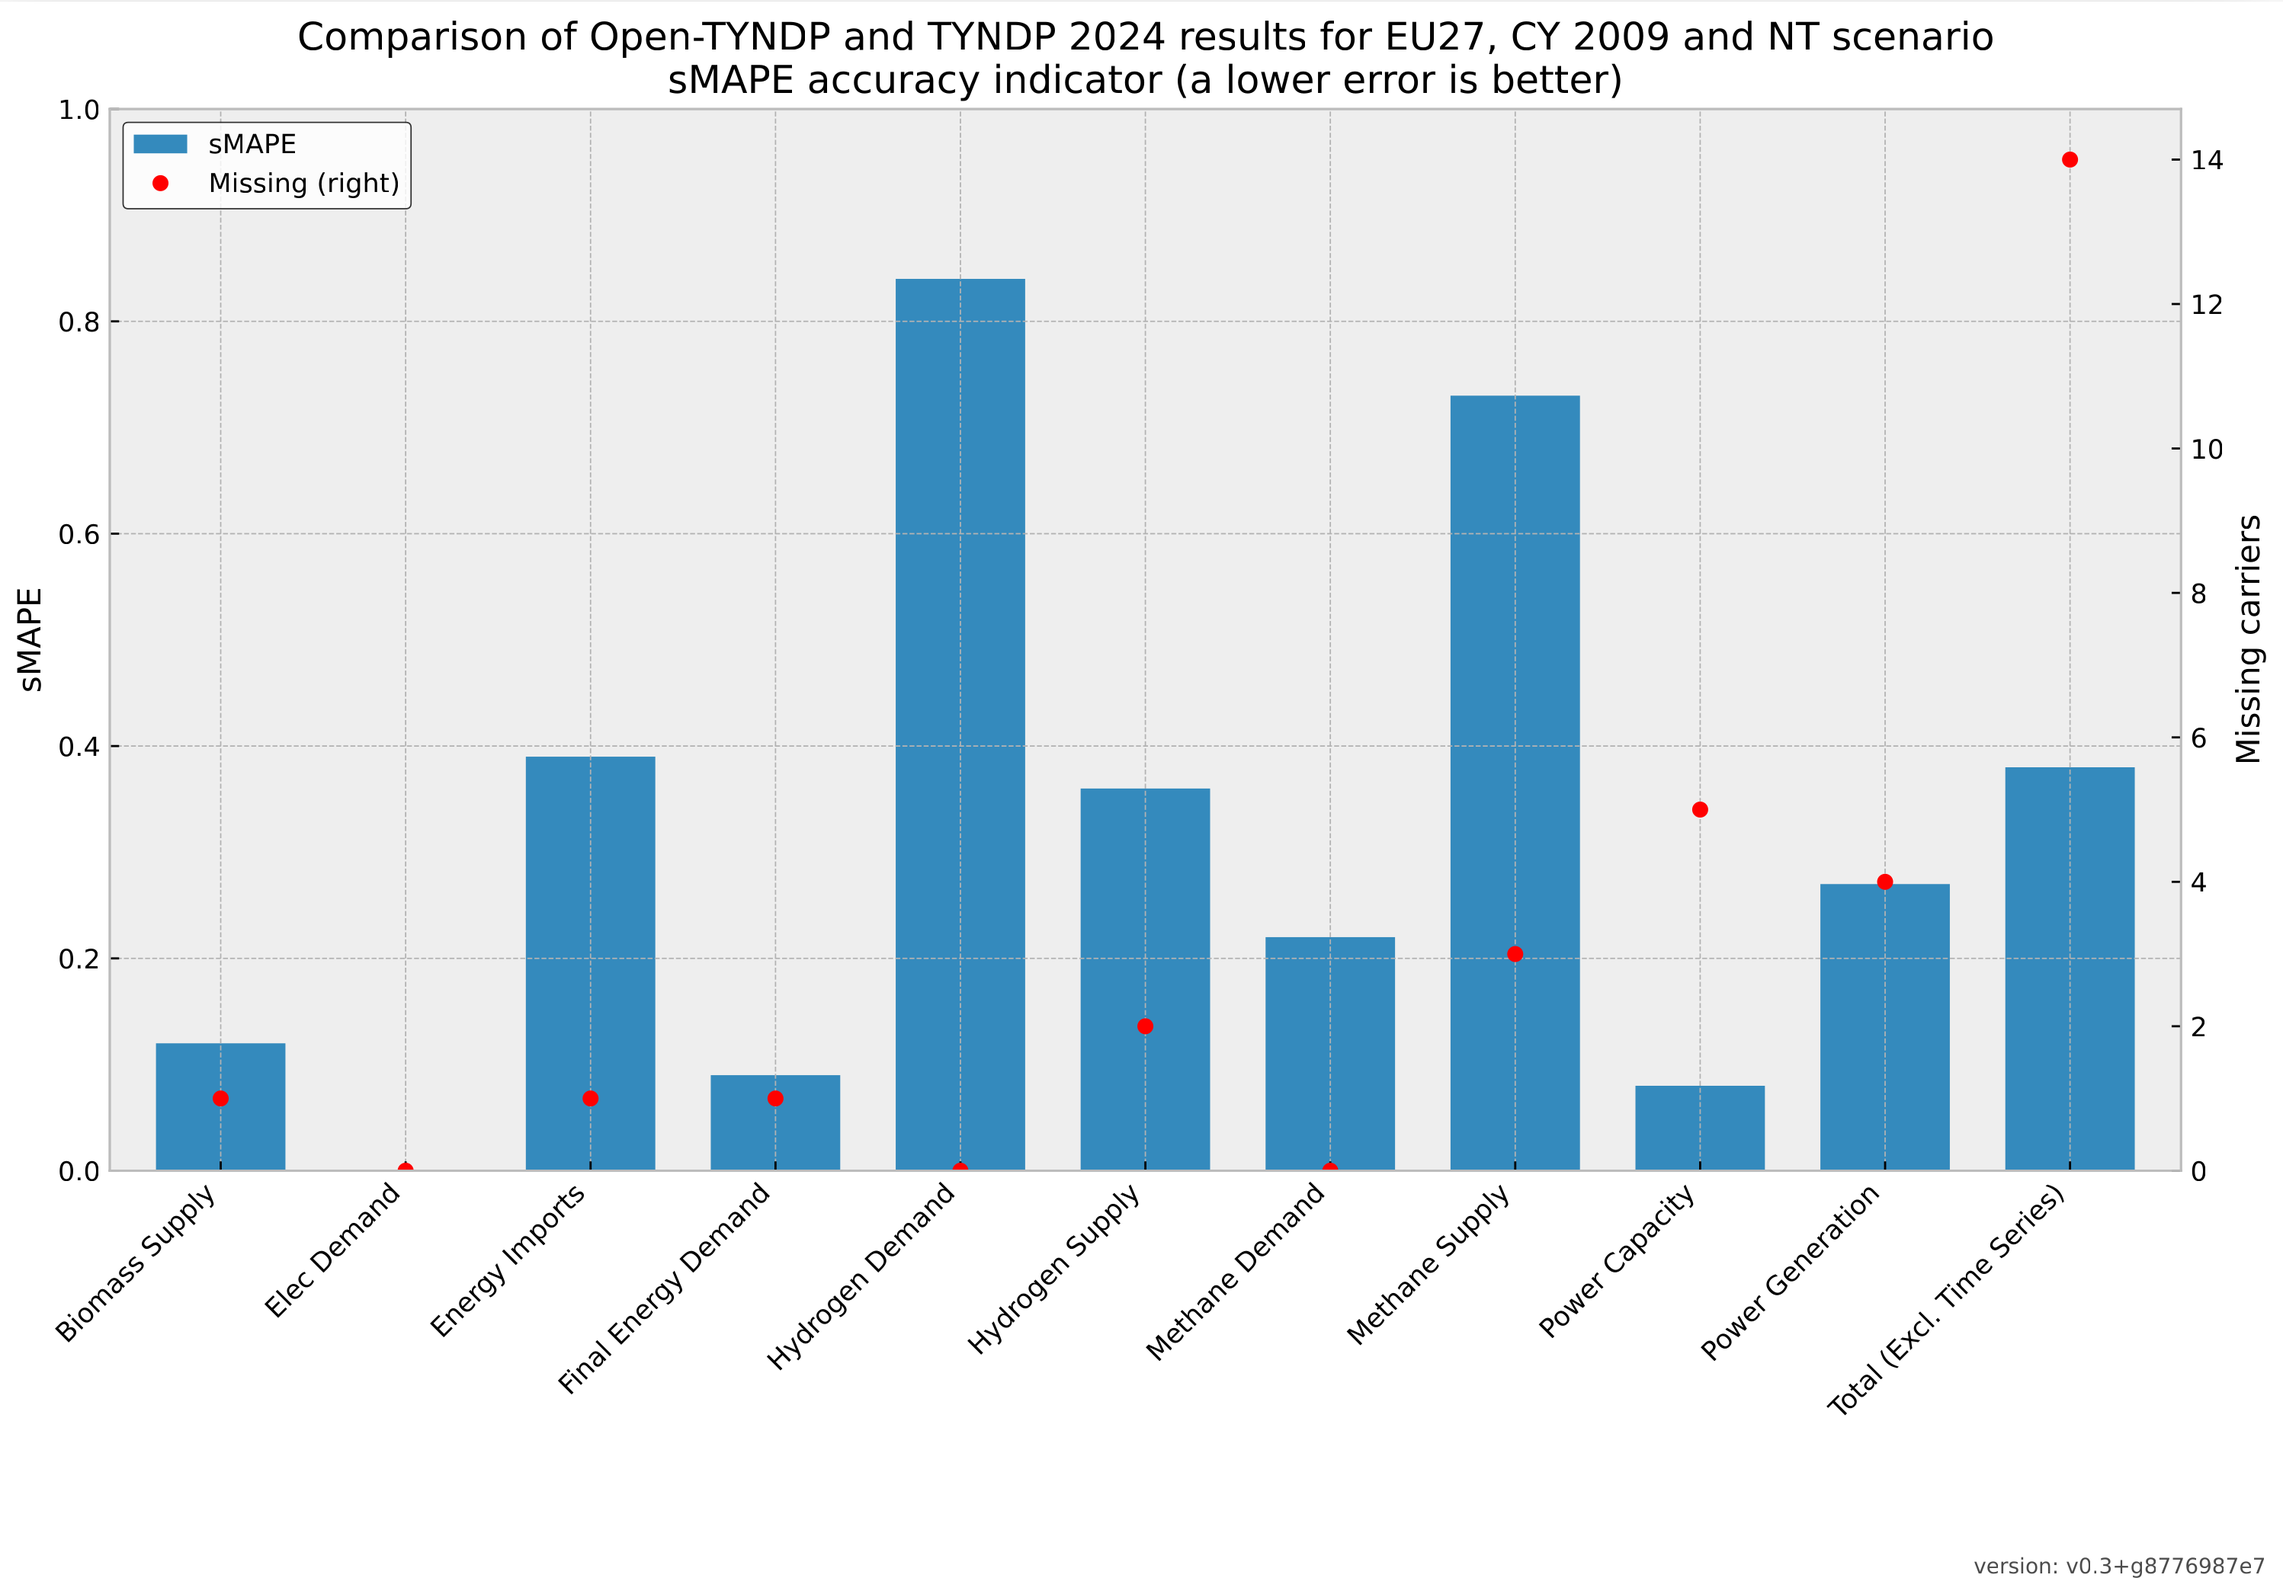
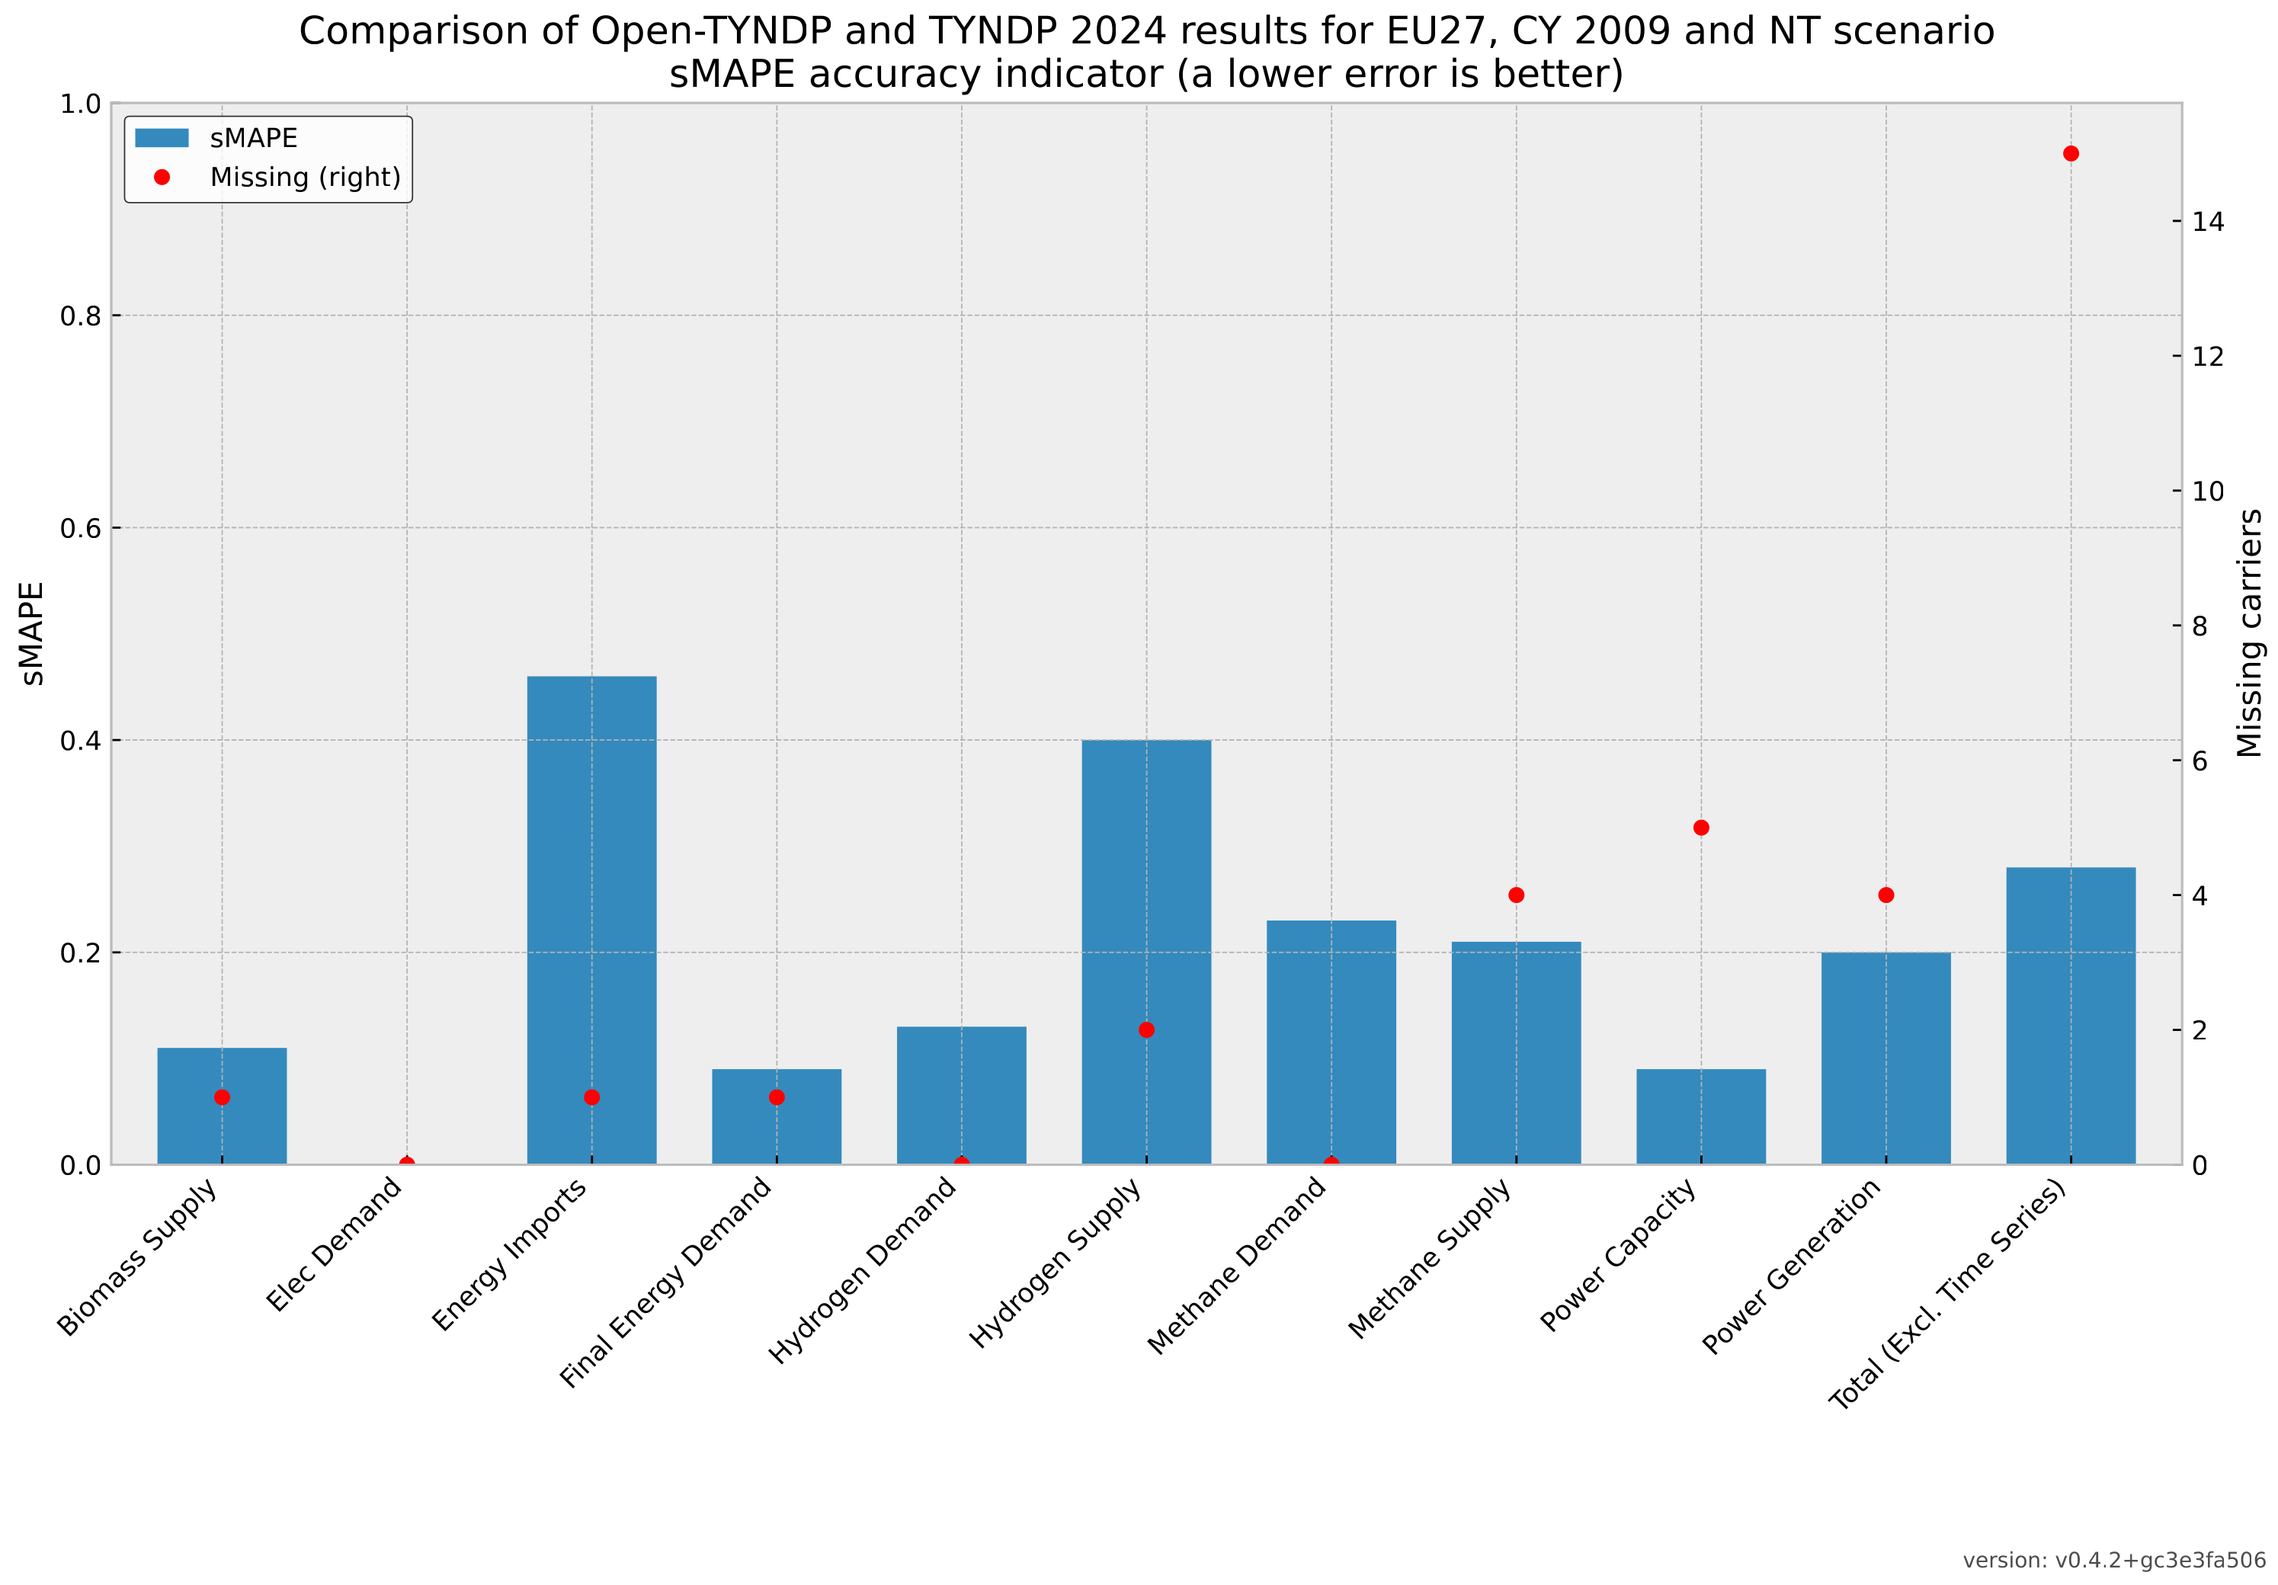
doc: update benchmarking tables and figures

diff --git a/doc/benchmarking.rst b/doc/benchmarking.rst
@@ -84,23 +84,23 @@ Outputs
 
 Example of indicators extracted from `power_generation_s_all__all_years.csv` for NT scenario with hourly resolution:
 
-================================  =======  =======  ========  =======  ================  ==================
+================================  =======  =======  ========  =======  ================  ====================
 Carrier                           sMPE     sMAPE    sMdAPE    RMSLE    Growth Error      version
-================================  =======  =======  ========  =======  ================  ==================
-**Coal + other fossil**           0.77     0.77     0.77      0.97     -0.09             v0.3+g8776987e7
-**Hydro (exc. pump storage)**     0.14     0.14     0.14      0.14     0.01              v0.3+g8776987e7
-**Hydrogen**                      -0.16    0.16     0.16      0.22     0.03              v0.3+g8776987e7
-**Methane**                       -0.28    0.28     0.28      0.28     -0.01             v0.3+g8776987e7
-**Nuclear**                       0.32     0.32     0.32      0.32     0                 v0.3+g8776987e7
-**Oil**                           -0.54    0.54     0.54      0.67     -0.07             v0.3+g8776987e7
-**Solar**                         -0.09    0.09     0.09      0.09     0                 v0.3+g8776987e7
-**Wind offshore**                 -0.06    0.06     0.06      0.07     -0.01             v0.3+g8776987e7
-**Wind onshore**                  -0.09    0.09     0.09      0.1      -0.01             v0.3+g8776987e7
-**Other res**                     —        —        —         —        —                 v0.3+g8776987e7
-**Other non-res**                 —        —        —         —        —                 v0.3+g8776987e7
-**Biofuels**                      —        —        —         —        —                 v0.3+g8776987e7
-**OCGT**                          —        —        —         —        —                 v0.3+g8776987e7
-================================  =======  =======  ========  =======  ================  ==================
+================================  =======  =======  ========  =======  ================  ====================
+**Coal + other fossil**           0.8      0.8      0.8       1.04     -0.1              v0.4.2+gc3e3fa506
+**Hydro (exc. pump storage)**     -0.05    0.05     0.05      0.05     0                 v0.4.2+gc3e3fa506
+**Hydrogen**                      0.11     0.2      0.2       0.23     -0.04             v0.4.2+gc3e3fa506
+**Methane**                       0        0.03     0.03      0.03     -0.01             v0.4.2+gc3e3fa506
+**Nuclear**                       0.07     0.07     0.07      0.08     -0.01             v0.4.2+gc3e3fa506
+**Oil**                           -0.5     0.5      0.5       0.65     -0.08             v0.4.2+gc3e3fa506
+**Solar**                         -0.09    0.09     0.09      0.09     0                 v0.4.2+gc3e3fa506
+**Wind offshore**                 -0.01    0.01     0.01      0.01     0                 v0.4.2+gc3e3fa506
+**Wind onshore**                  -0.07    0.07     0.07      0.08     -0.01             v0.4.2+gc3e3fa506
+**Other res**                     —        —        —         —        —                 v0.4.2+gc3e3fa506
+**Biofuels**                      —        —        —         —        —                 v0.4.2+gc3e3fa506
+**Other non-res**                 —        —        —         —        —                 v0.4.2+gc3e3fa506
+**OCGT**                          —        —        —         —        —                 v0.4.2+gc3e3fa506
+================================  =======  =======  ========  =======  ================  ====================
 
 Example of figure created for the final energy demand for NT scenario in 2030 with hourly resolution:
 
@@ -116,22 +116,22 @@ Example of figure created for the generation profiles for DE scenario in 2040 wi
 
 Example of indicators extracted from `kpis_eu27_s_all__all_years.csv` for NT scenario with hourly resolution:
 
-===========================  =======  =======  ========  =======  ================  =========  ==================
+===========================  =======  =======  ========  =======  ================  =========  ====================
 Metric                       sMPE     sMAPE    sMdAPE    RMSLE    Growth Error      Missing    version
-===========================  =======  =======  ========  =======  ================  =========  ==================
-biomass_supply               0.12     0.12     0.09      0.17     0                 1          v0.3+g8776987e7
-elec_demand                  0        0        0         0        0                 0          v0.3+g8776987e7
-energy_imports               0.39     0.39     0.2       0.73     0.01              1          v0.3+g8776987e7
-final_energy_demand          0.07     0.09     0.08      0.12     0.01              1          v0.3+g8776987e7
-generation_profiles          —        —        —         —        —                 NA         v0.3+g8776987e7
-hydrogen_demand              -0.79    0.84     0.45      4.03     -0.03             0          v0.3+g8776987e7
-hydrogen_supply              -0.23    0.36     0.22      0.74     -0.02             2          v0.3+g8776987e7
-methane_demand               -0.12    0.22     0.16      0.27     -0.01             0          v0.3+g8776987e7
-methane_supply               -0.58    0.73     0.15      2.65     0                 3          v0.3+g8776987e7
-power_capacity               0        0.08     0.02      0.17     -0.01             5          v0.3+g8776987e7
-power_generation             0        0.27     0.19      0.43     -0.01             4          v0.3+g8776987e7
-Total (excl. time series)    -0.07    0.38     0.14      1.58     0                 14         v0.3+g8776987e7
-===========================  =======  =======  ========  =======  ================  =========  ==================
+===========================  =======  =======  ========  =======  ================  =========  ====================
+biomass_supply               0.11     0.11     0.06      0.16     0                 1          v0.4.2+gc3e3fa506
+elec_demand                  0        0        0         0        0                 0          v0.4.2+gc3e3fa506
+energy_imports               0.46     0.46     0.34      0.75     0.01              1          v0.4.2+gc3e3fa506
+final_energy_demand          0.07     0.09     0.08      0.13     0.01              1          v0.4.2+gc3e3fa506
+generation_profiles          —        —        —         —        —                 NA         v0.4.2+gc3e3fa506
+hydrogen_demand              -0.07    0.13     0.1       0.16     -0.01             0          v0.4.2+gc3e3fa506
+hydrogen_supply              -0.11    0.4      0.47      0.54     -0.02             2          v0.4.2+gc3e3fa506
+methane_demand               0.17     0.23     0.15      0.31     0                 0          v0.4.2+gc3e3fa506
+methane_supply               0.21     0.21     0.16      0.24     0.01              4          v0.4.2+gc3e3fa506
+power_capacity               0.02     0.09     0.02      0.16     -0.01             5          v0.4.2+gc3e3fa506
+power_generation             0.03     0.2      0.08      0.42     0                 4          v0.4.2+gc3e3fa506
+Total (excl. time series)    0.13     0.28     0.12      0.49     0                 15         v0.4.2+gc3e3fa506
+===========================  =======  =======  ========  =======  ================  =========  ====================
 
 Example of summary figure created for NT scenario:
 
